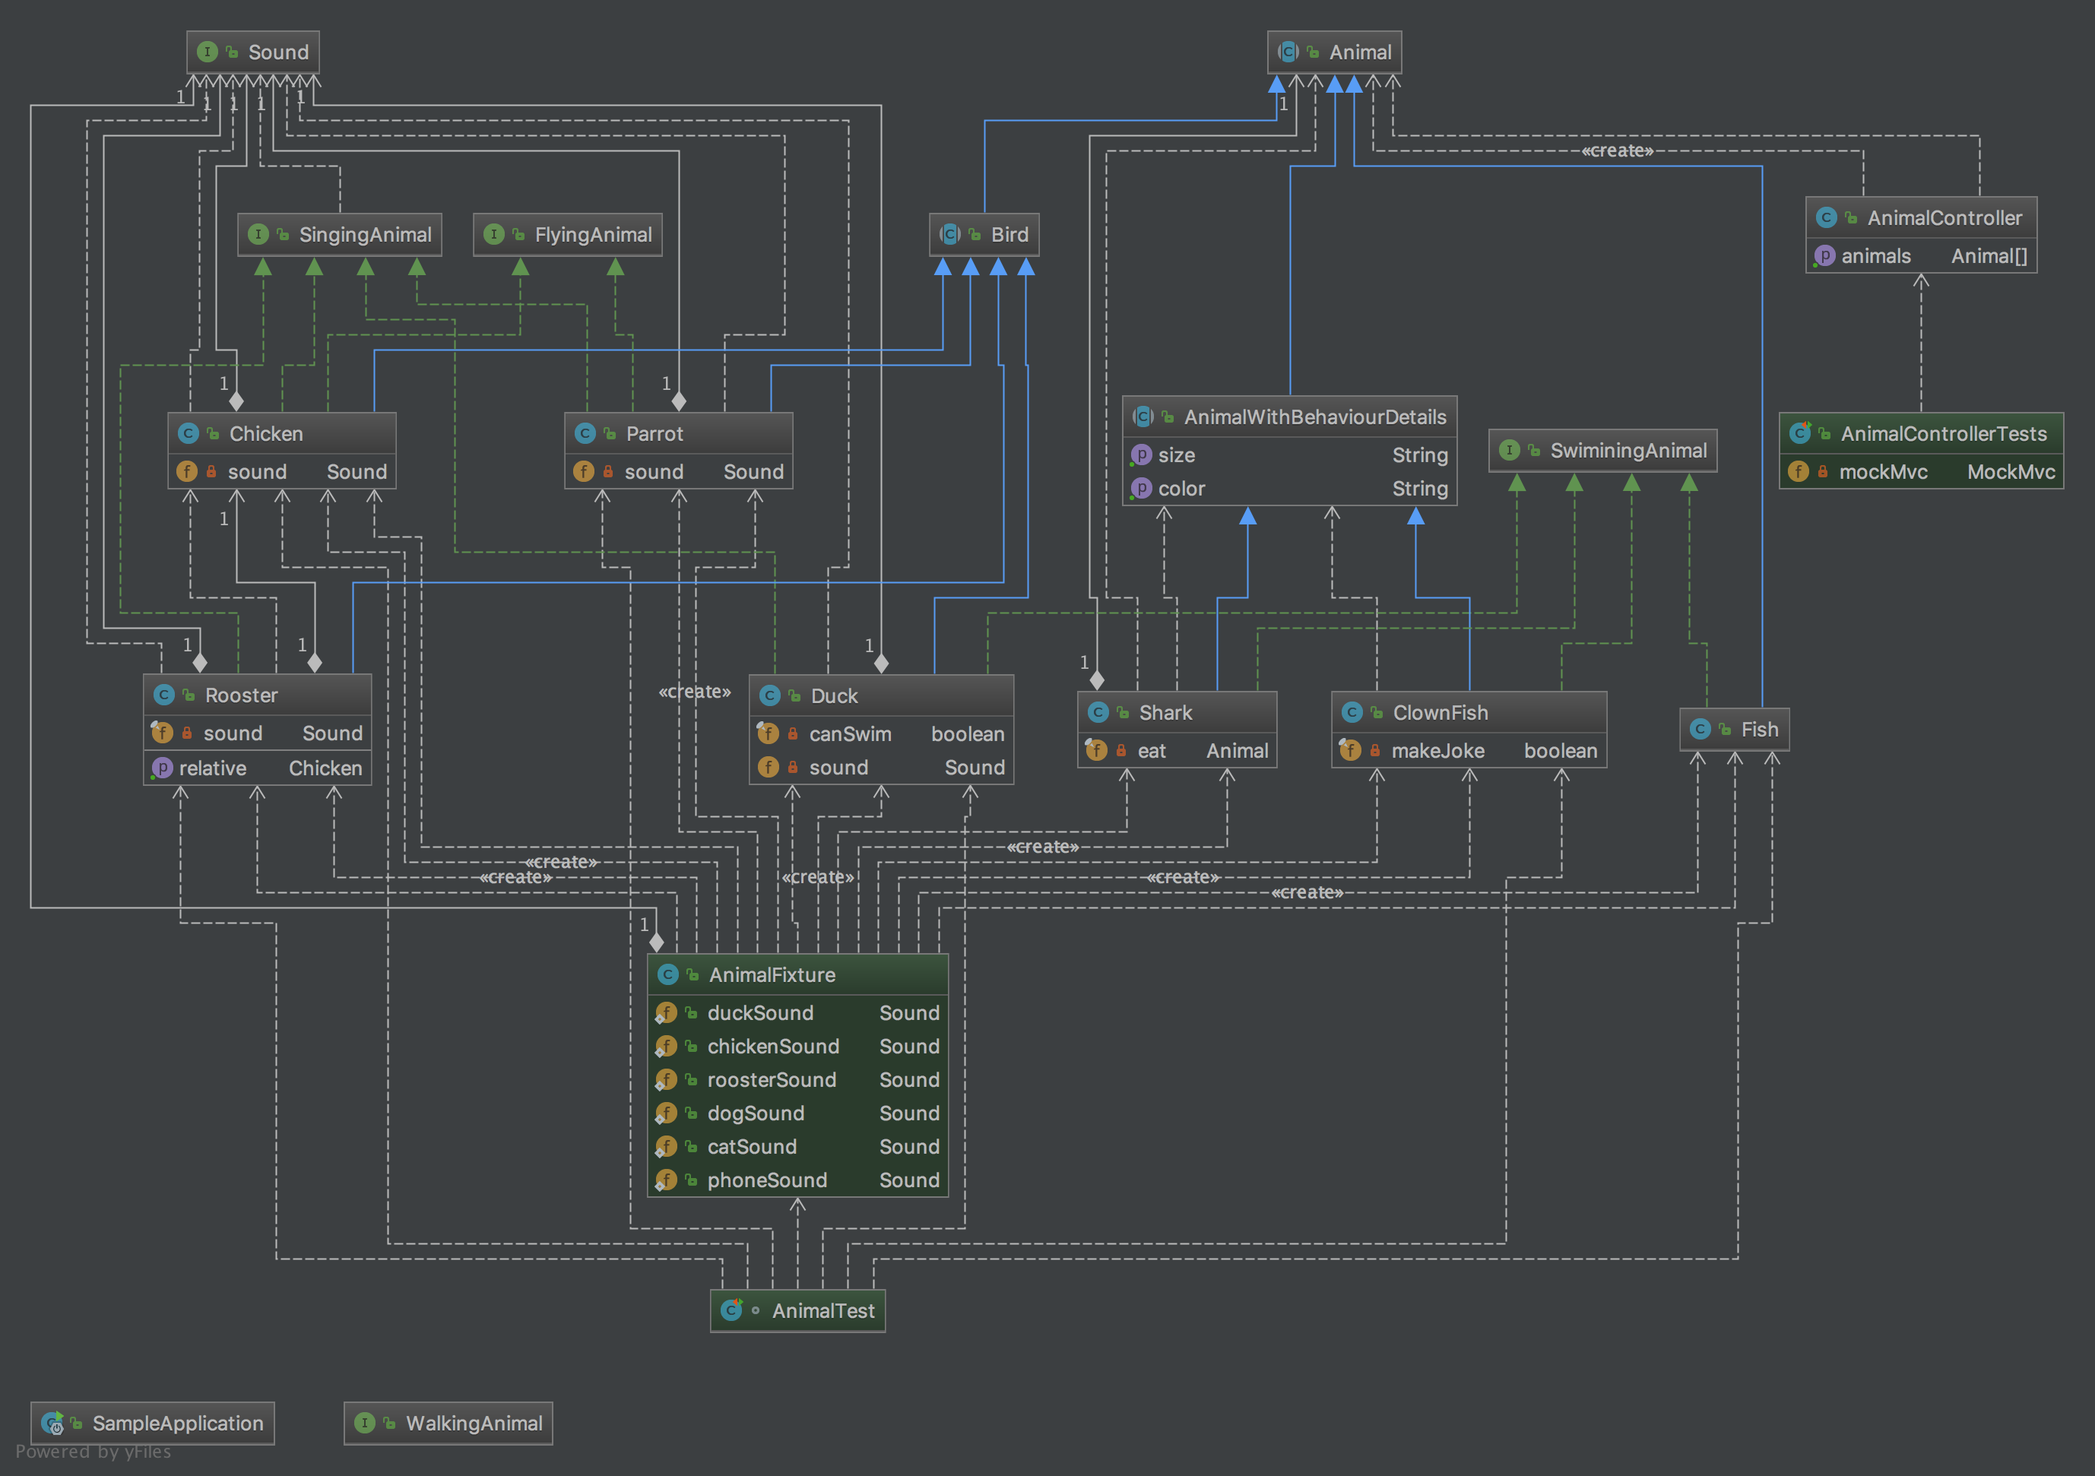
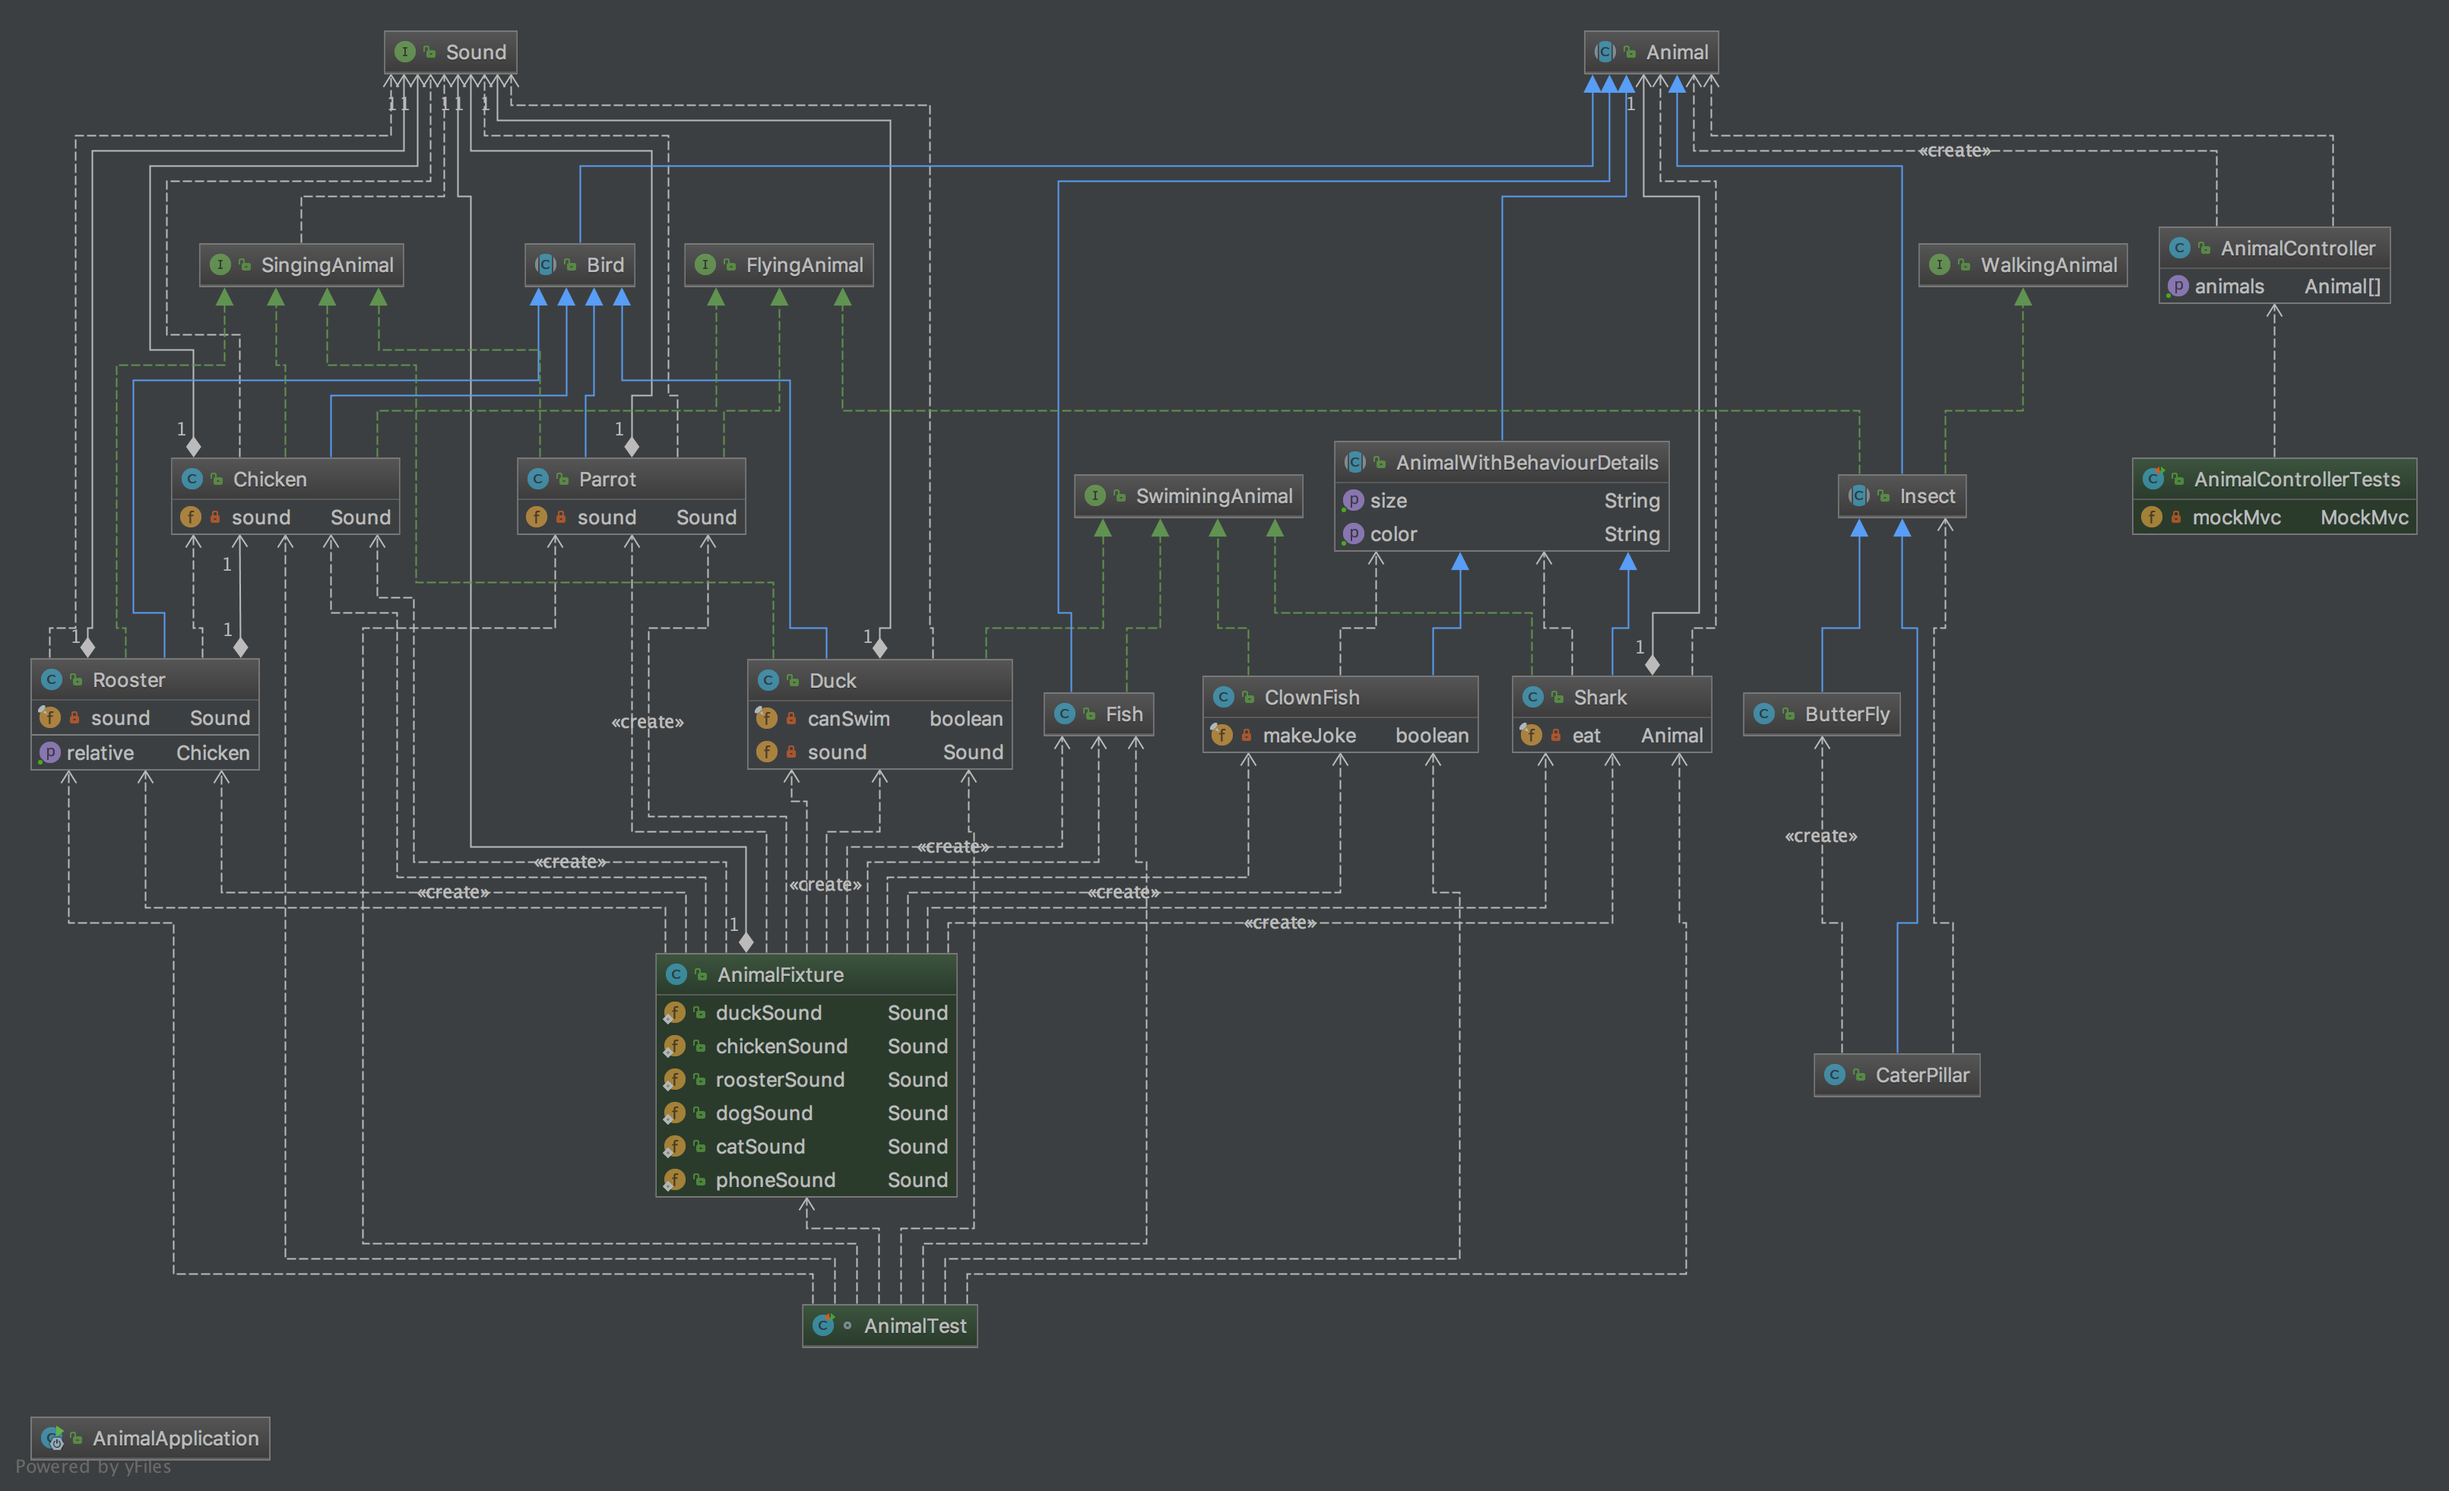
After Question B1

diff --git a/src/main/java/com/example/animal/model/CaterPillar.java b/src/main/java/com/example/animal/model/CaterPillar.java
@@ -1,0 +1,17 @@
+package com.example.animal.model;
+
+public class CaterPillar extends Insect {
+    @Override
+    public boolean fly() {
+        return false;
+    }
+
+    @Override
+    public boolean walk() {
+        return true;
+    }
+
+    public Insect metaphor(){
+        return new ButterFly();
+    }
+}

diff --git a/src/main/java/com/example/animal/model/ButterFly.java b/src/main/java/com/example/animal/model/ButterFly.java
@@ -1,0 +1,13 @@
+package com.example.animal.model;
+
+public class ButterFly extends Insect {
+    @Override
+    public boolean fly() {
+        return false;
+    }
+
+    @Override
+    public boolean walk() {
+        return false;
+    }
+}

diff --git a/src/main/java/com/example/animal/model/Insect.java b/src/main/java/com/example/animal/model/Insect.java
@@ -1,0 +1,7 @@
+package com.example.animal.model;
+
+import com.example.animal.behaviour.FlyingAnimal;
+import com.example.animal.behaviour.WalkingAnimal;
+
+public abstract class Insect extends Animal implements FlyingAnimal, WalkingAnimal {
+}
